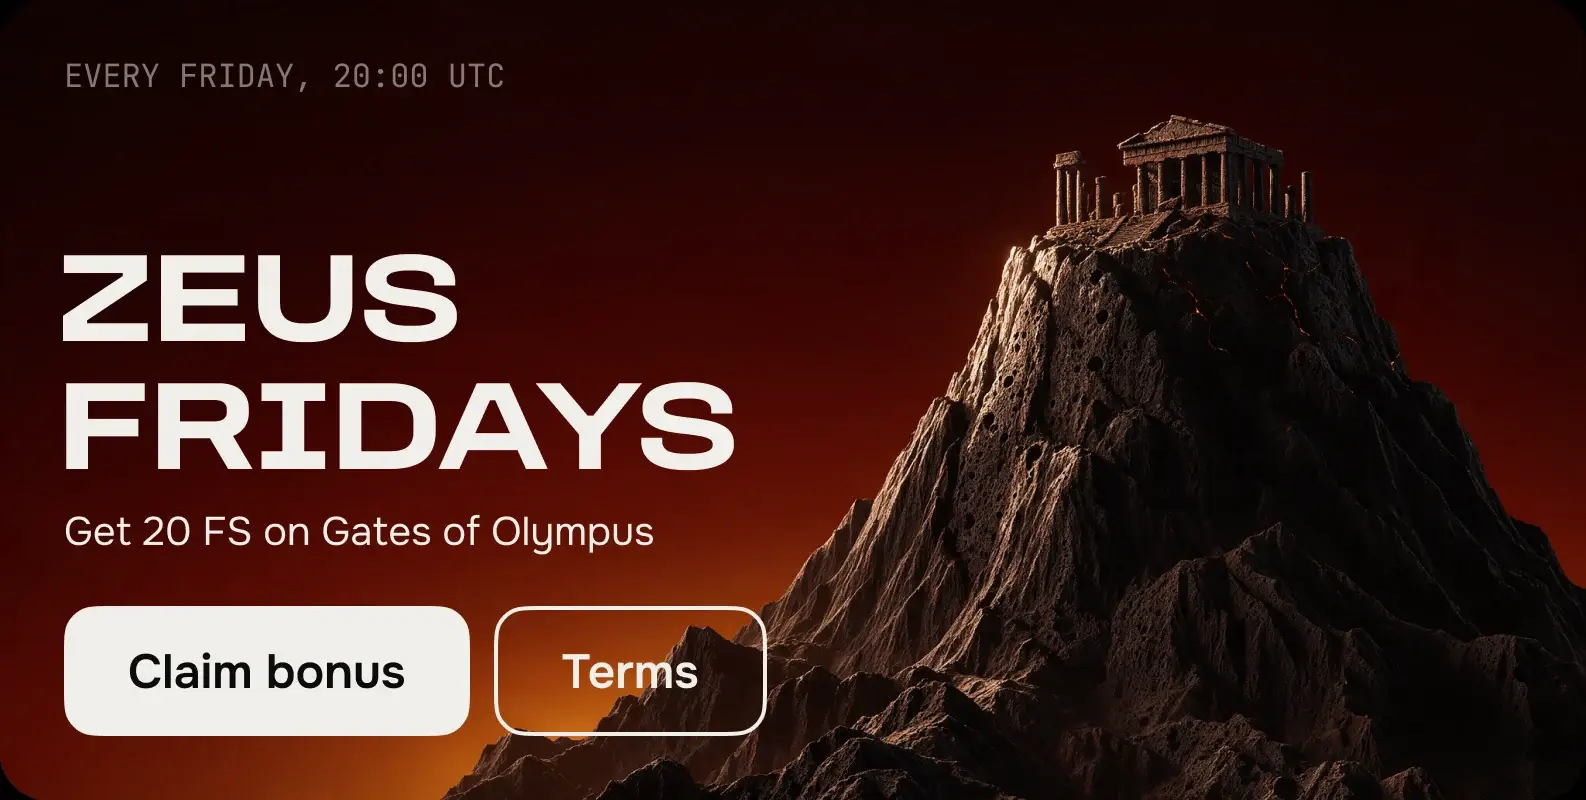
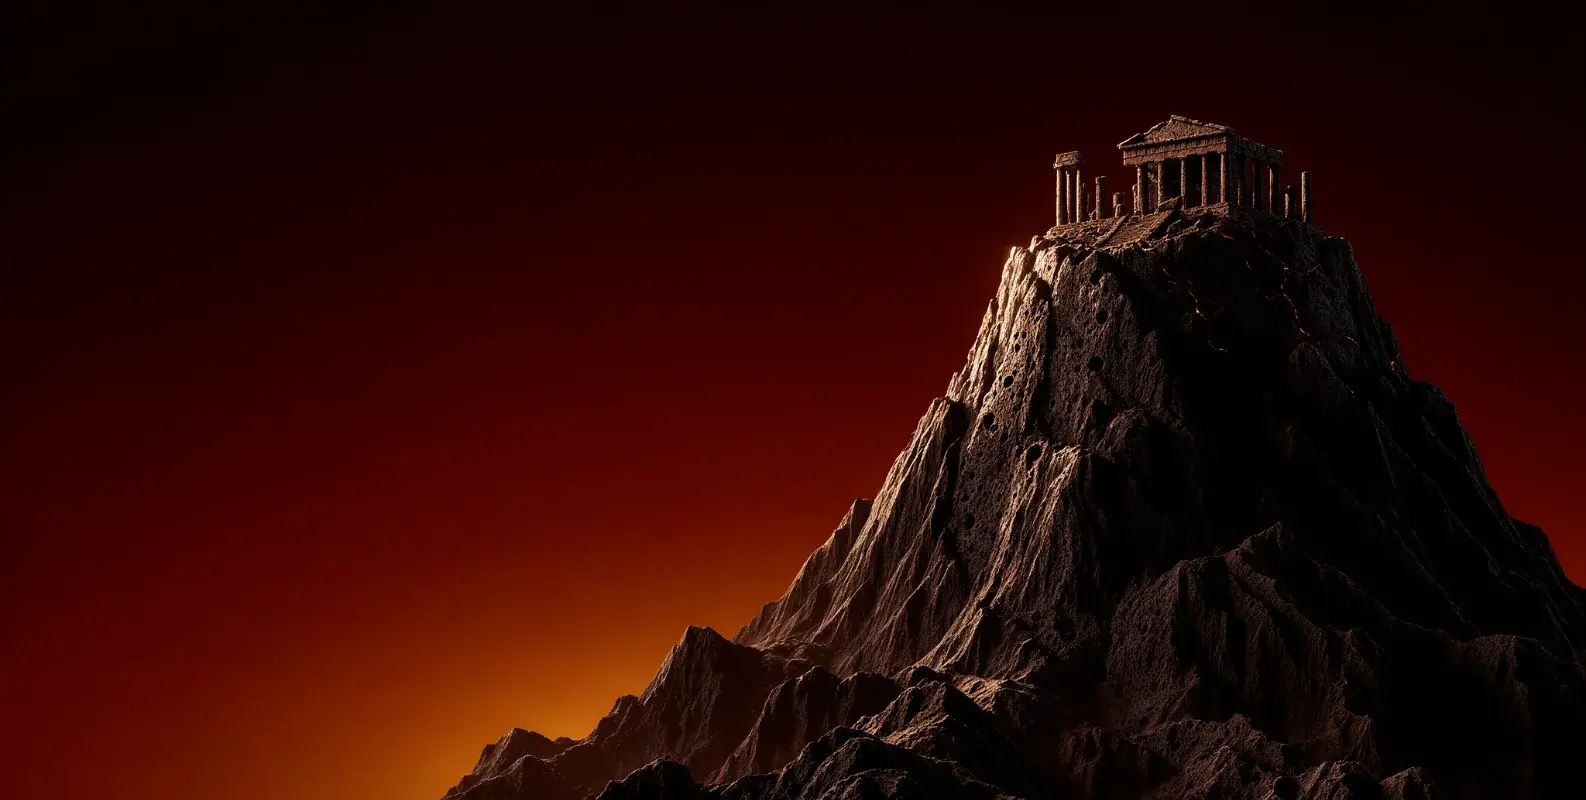
-m PLAZMO: баннеры ниже (21:8), текст и кнопки живым HTML

diff --git a/index.html b/index.html
@@ -7079,39 +7079,52 @@ body.nav-rail .ri:hover::after, body.nav-rail .ri:focus-visible::after { opacity
 .category-grid[hidden] { display: none; }
 
 /* ── Слайдер баннеров (Figma 315:4629) ──
-   Баннер 1586×800 показан целиком, поэтому коробка держит его пропорцию:
-   тогда невидимые кнопки ложатся ровно на нарисованные. */
-.bsl { position: relative; width: 100%; aspect-ratio: 1586 / 800; border-radius: inherit; overflow: hidden; }
+   Макет 1586×800. Текст и кнопки меряются в cqh — долях высоты баннера,
+   поэтому раскладка та же при любой пропорции; арт тянется по ширине и
+   прижат вправо. На компьютере баннер низкий и вытянутый (21:8), на
+   телефоне — пропорция макета. */
+.bsl { position: relative; width: 100%; aspect-ratio: 21 / 8; border-radius: inherit; overflow: hidden; background: #000; }
 .bsl__track { display: flex; width: 100%; height: 100%; overflow-x: auto; scroll-snap-type: x mandatory;
               scroll-behavior: smooth; scrollbar-width: none; }
 .bsl__track::-webkit-scrollbar { display: none; }
-.bsl__slide { position: relative; flex: 0 0 100%; height: 100%; scroll-snap-align: start; }
-.bsl__slide img { display: block; width: 100%; height: 100%; object-fit: cover; }
-.bsl__hot { position: absolute; top: 75.75%; height: 16.25%; padding: 0; border: 0; background: none;
-            border-radius: 4%/8%; cursor: pointer; }
-.bsl__hot--claim { left: 4.04%; width: 25.6%; }
-.bsl__hot--terms { left: 31.15%; width: 17.21%; }
-.bsl__hot--play { left: 4.04%; width: 21.37%; }
-.bsl__hot--terms-s { left: 27.24%; width: 17.21%; }
-.bsl__hot:hover { background: rgba(255, 255, 255, .08); }
-.bsl__hot:focus-visible { outline: 2px solid #fff; outline-offset: 2px; }
+.bsl__slide { position: relative; flex: 0 0 100%; height: 100%; scroll-snap-align: start; container-type: size; overflow: hidden; }
+.bsl__art { position: absolute; inset: 0; display: block; width: 100%; height: 100%; object-fit: cover; object-position: 100% 45%; }
+.bsl__txt { position: absolute; inset: 0; pointer-events: none; color: #f0eeea; }
+.bsl .bsl__info { position: absolute; left: 8cqh; top: 8cqh; font-family: 'JetBrains Mono', ui-monospace, monospace;
+             font-size: 4cqh; line-height: 1; text-transform: uppercase; opacity: .5; white-space: nowrap; }
+.bsl .bsl__title { position: absolute; max-width: none; color: #f0eeea; left: 7.25cqh; top: 28.6cqh; margin: 0; font-family: 'Archivo', 'Arial Black', sans-serif;
+              font-variation-settings: 'wdth' 112; font-stretch: 112%; font-weight: 800; font-size: 16cqh; line-height: 1;
+              letter-spacing: -.01em; text-transform: uppercase; white-space: nowrap; }
+.bsl .bsl__sub { position: absolute; max-width: none; color: #f0eeea; left: 8cqh; top: 63.2cqh; margin: 0; font-family: 'Onest', system-ui, sans-serif;
+            font-size: 5cqh; line-height: 1.1; white-space: nowrap; }
+.bsl .bsl__btns { position: absolute; left: 8cqh; top: 75.75cqh; display: flex; gap: 3cqh; pointer-events: auto; }
+.bsl .bsl__btn { box-sizing: border-box; height: 16.25cqh; padding: 0 8cqh; border-radius: 4cqh; cursor: pointer;
+            font-family: 'Onest', system-ui, sans-serif; font-weight: 600; font-size: 6cqh; line-height: 1; white-space: nowrap;
+            transition: background-color .15s ease, box-shadow .15s ease, transform .1s ease; }
+.bsl__btn--main { border: 0; background: #f0eeea; color: #0c0c0c; }
+.bsl__btn--main:hover { background: #fff; }
+.bsl__btn--ghost { border: .5cqh solid #f0eeea; background: none; color: #f0eeea; }
+.bsl__btn--ghost:hover { background: rgba(240, 238, 234, .1); }
+.bsl__btn:active { transform: translateY(1px); }
+.bsl__btn:focus-visible { outline: 2px solid #fff; outline-offset: 2px; }
 .bsl__dots { position: absolute; right: 3%; top: 7%; display: flex; gap: 6px; }
 .bsl__dots button { width: 16px; height: 4px; padding: 0; border: 0; border-radius: 999px; cursor: pointer;
                     background: rgba(240, 238, 234, .35); transition: width .2s ease, background-color .2s ease; }
 .bsl__dots button[aria-selected="true"] { width: 32px; background: #f0eeea; }
-@media (max-width: 767px) { .bsl__dots { top: 7%; bottom: auto; gap: 4px; } .bsl__dots button { width: 8px; } .bsl__dots button[aria-selected="true"] { width: 18px; } }
+@media (max-width: 1023px) { .bsl { aspect-ratio: 1586 / 800; } }
+@media (max-width: 767px) { .bsl__dots { gap: 4px; } .bsl__dots button { width: 8px; } .bsl__dots button[aria-selected="true"] { width: 18px; } }
 
 /* Большой промоблок на главной — теперь слайдер баннеров: коробка по
    пропорции баннера, две карточки справа делят его высоту. */
 .bento { grid-template-rows: auto auto; }
-.t-main { padding: 0; background: #0b0a0a; aspect-ratio: 1586 / 800; gap: 0; }
+.t-main { padding: 0; background: #0b0a0a; aspect-ratio: 21 / 8; gap: 0; }
 @media (min-width: 1024px) and (max-width: 1279px) {
   .bento { grid-template-rows: auto 180px; }
 }
 /* Телефон: вместо прежнего героя — тот же слайдер во всю ширину */
 @media (max-width: 1023px) {
   .bento { display: grid; grid-template-columns: minmax(0, 1fr); grid-template-rows: auto; margin-bottom: 8px; }
-  .t-main { grid-column: auto; grid-row: auto; border-radius: 16px; }
+  .t-main { grid-column: auto; grid-row: auto; border-radius: 16px; aspect-ratio: 1586 / 800; }
   .t-side { display: none; }
   .hero { display: none !important; }
 }
@@ -7357,24 +7370,25 @@ body.nav-rail .ri:hover::after, body.nav-rail .ri:focus-visible::after { opacity
     <div class="pz-top">
       <div class="bento">
         <div class="tile t-main">
-          <!-- Баннеры из Figma (Design QA 315:4629): картинка баннера целиком,
-               поверх нарисованных кнопок — настоящие кнопки-невидимки. -->
+          <!-- Баннеры из Figma (Design QA 315:4629). Арт — картинкой, текст и кнопки —
+               живым HTML: так баннер держит любую пропорцию, а размеры текста
+               считаются от его высоты (container query), как в макете 1586×800. -->
           <div class="bsl" data-bsl aria-roledescription="carousel" aria-label="Promotions">
             <div class="bsl__track">
-              <div class="bsl__slide" role="group" aria-roledescription="slide"><img src="a/1f41a97a15.webp" alt="Heat up to 350% — welcome pack" width="1586" height="800"><button class="bsl__hot bsl__hot--claim" type="button" data-fgo="auth:reg" aria-label="Claim bonus"></button><button class="bsl__hot bsl__hot--terms" type="button" data-fgo="view:promo" aria-label="Terms"></button></div>
-              <div class="bsl__slide" role="group" aria-roledescription="slide"><img src="a/8f3025f001.webp" alt="Zeus Fridays — 20 free spins on Gates of Olympus" width="1586" height="800"><button class="bsl__hot bsl__hot--claim" type="button" data-fgo="auth:reg" aria-label="Claim bonus"></button><button class="bsl__hot bsl__hot--terms" type="button" data-fgo="view:promo" aria-label="Terms"></button></div>
-              <div class="bsl__slide" role="group" aria-roledescription="slide"><img src="a/aaa5515201.webp" alt="Welcome free spins for new players" width="1586" height="800"><button class="bsl__hot bsl__hot--claim" type="button" data-fgo="auth:reg" aria-label="Claim bonus"></button><button class="bsl__hot bsl__hot--terms" type="button" data-fgo="view:promo" aria-label="Terms"></button></div>
-              <div class="bsl__slide" role="group" aria-roledescription="slide"><img src="a/bd83c5ddf9.webp" alt="Referral program — 5% of friends’ net loss" width="1586" height="800"><button class="bsl__hot bsl__hot--claim" type="button" data-fgo="auth:reg" aria-label="Claim bonus"></button><button class="bsl__hot bsl__hot--terms" type="button" data-fgo="view:promo" aria-label="Terms"></button></div>
-              <div class="bsl__slide" role="group" aria-roledescription="slide"><img src="a/358c733900.webp" alt="Sport event" width="1586" height="800"><button class="bsl__hot bsl__hot--play" type="button" data-fgo="msg:Sport is coming soon." aria-label="Play now"></button><button class="bsl__hot bsl__hot--terms-s" type="button" data-fgo="view:promo" aria-label="Terms"></button></div>
-              <div class="bsl__slide" role="group" aria-roledescription="slide"><img src="a/f77d9ab632.webp" alt="Heat up to 350%" width="1586" height="800"><button class="bsl__hot bsl__hot--claim" type="button" data-fgo="auth:reg" aria-label="Claim bonus"></button><button class="bsl__hot bsl__hot--terms" type="button" data-fgo="view:promo" aria-label="Terms"></button></div>
-              <div class="bsl__slide" role="group" aria-roledescription="slide"><img src="a/07e5062ef2.webp" alt="Heat up to 350%" width="1586" height="800"><button class="bsl__hot bsl__hot--claim" type="button" data-fgo="auth:reg" aria-label="Claim bonus"></button><button class="bsl__hot bsl__hot--terms" type="button" data-fgo="view:promo" aria-label="Terms"></button></div>
-              <div class="bsl__slide" role="group" aria-roledescription="slide"><img src="a/b15df42907.webp" alt="Heat up to 350%" width="1586" height="800"><button class="bsl__hot bsl__hot--claim" type="button" data-fgo="auth:reg" aria-label="Claim bonus"></button><button class="bsl__hot bsl__hot--terms" type="button" data-fgo="view:promo" aria-label="Terms"></button></div>
-              <div class="bsl__slide" role="group" aria-roledescription="slide"><img src="a/a268912f1c.webp" alt="Heat up to 350%" width="1586" height="800"><button class="bsl__hot bsl__hot--claim" type="button" data-fgo="auth:reg" aria-label="Claim bonus"></button><button class="bsl__hot bsl__hot--terms" type="button" data-fgo="view:promo" aria-label="Terms"></button></div>
-              <div class="bsl__slide" role="group" aria-roledescription="slide"><img src="a/f658cfa89b.webp" alt="Heat up to 350%" width="1586" height="800"><button class="bsl__hot bsl__hot--claim" type="button" data-fgo="auth:reg" aria-label="Claim bonus"></button><button class="bsl__hot bsl__hot--terms" type="button" data-fgo="view:promo" aria-label="Terms"></button></div>
-              <div class="bsl__slide" role="group" aria-roledescription="slide"><img src="a/94be92433c.webp" alt="Heat up to 350%" width="1586" height="800"><button class="bsl__hot bsl__hot--claim" type="button" data-fgo="auth:reg" aria-label="Claim bonus"></button><button class="bsl__hot bsl__hot--terms" type="button" data-fgo="view:promo" aria-label="Terms"></button></div>
-              <div class="bsl__slide" role="group" aria-roledescription="slide"><img src="a/fac07efb93.webp" alt="Heat up to 350%" width="1586" height="800"><button class="bsl__hot bsl__hot--claim" type="button" data-fgo="auth:reg" aria-label="Claim bonus"></button><button class="bsl__hot bsl__hot--terms" type="button" data-fgo="view:promo" aria-label="Terms"></button></div>
-              <div class="bsl__slide" role="group" aria-roledescription="slide"><img src="a/92e31c5ff0.webp" alt="Heat up to 350%" width="1586" height="800"><button class="bsl__hot bsl__hot--claim" type="button" data-fgo="auth:reg" aria-label="Claim bonus"></button><button class="bsl__hot bsl__hot--terms" type="button" data-fgo="view:promo" aria-label="Terms"></button></div>
-              <div class="bsl__slide" role="group" aria-roledescription="slide"><img src="a/bbf3acab0c.webp" alt="Heat up to 350%" width="1586" height="800"><button class="bsl__hot bsl__hot--claim" type="button" data-fgo="auth:reg" aria-label="Claim bonus"></button><button class="bsl__hot bsl__hot--terms" type="button" data-fgo="view:promo" aria-label="Terms"></button></div>
+              <div class="bsl__slide" role="group" aria-roledescription="slide"><img class="bsl__art" src="a/1f41a97a15.webp" alt="" width="1586" height="800"><div class="bsl__txt"><span class="bsl__info">Welcome pack · 3 deposits</span><h3 class="bsl__title">Heat up<br>to 350%</h3><p class="bsl__sub">Warm up your balance.</p><div class="bsl__btns"><button class="bsl__btn bsl__btn--main" type="button" data-fgo="auth:reg">Claim bonus</button><button class="bsl__btn bsl__btn--ghost" type="button" data-fgo="view:promo">Terms</button></div></div></div>
+              <div class="bsl__slide" role="group" aria-roledescription="slide"><img class="bsl__art" src="a/8f3025f001.webp" alt="" width="1586" height="800"><div class="bsl__txt"><span class="bsl__info">Every Friday, 20:00 UTC</span><h3 class="bsl__title">Zeus<br>Fridays</h3><p class="bsl__sub">Get 20 FS on Gates of Olympus</p><div class="bsl__btns"><button class="bsl__btn bsl__btn--main" type="button" data-fgo="auth:reg">Claim bonus</button><button class="bsl__btn bsl__btn--ghost" type="button" data-fgo="view:promo">Terms</button></div></div></div>
+              <div class="bsl__slide" role="group" aria-roledescription="slide"><img class="bsl__art" src="a/aaa5515201.webp" alt="" width="1586" height="800"><div class="bsl__txt"><span class="bsl__info">Active for registration</span><h3 class="bsl__title">Welcome<br>freespins</h3><p class="bsl__sub">For new players</p><div class="bsl__btns"><button class="bsl__btn bsl__btn--main" type="button" data-fgo="auth:reg">Claim bonus</button><button class="bsl__btn bsl__btn--ghost" type="button" data-fgo="view:promo">Terms</button></div></div></div>
+              <div class="bsl__slide" role="group" aria-roledescription="slide"><img class="bsl__art" src="a/bd83c5ddf9.webp" alt="" width="1586" height="800"><div class="bsl__txt"><span class="bsl__info">Active for registration</span><h3 class="bsl__title">Referal<br>program</h3><p class="bsl__sub">5% of invited friend’s net loss for 30 days</p><div class="bsl__btns"><button class="bsl__btn bsl__btn--main" type="button" data-fgo="auth:reg">Claim bonus</button><button class="bsl__btn bsl__btn--ghost" type="button" data-fgo="view:promo">Terms</button></div></div></div>
+              <div class="bsl__slide" role="group" aria-roledescription="slide"><img class="bsl__art" src="a/358c733900.webp" alt="" width="1586" height="800"><div class="bsl__txt"><span class="bsl__info">Sport event, 20:00 UTC</span><h3 class="bsl__title">Sport<br>banner</h3><p class="bsl__sub">Make the move</p><div class="bsl__btns"><button class="bsl__btn bsl__btn--main" type="button" data-fgo="msg:Sport is coming soon.">Play now</button><button class="bsl__btn bsl__btn--ghost" type="button" data-fgo="view:promo">Terms</button></div></div></div>
+              <div class="bsl__slide" role="group" aria-roledescription="slide"><img class="bsl__art" src="a/f77d9ab632.webp" alt="" width="1586" height="800"><div class="bsl__txt"><span class="bsl__info">Welcome pack · 3 deposits</span><h3 class="bsl__title">Heat up<br>to 350%</h3><p class="bsl__sub">Warm up your balance.</p><div class="bsl__btns"><button class="bsl__btn bsl__btn--main" type="button" data-fgo="auth:reg">Claim bonus</button><button class="bsl__btn bsl__btn--ghost" type="button" data-fgo="view:promo">Terms</button></div></div></div>
+              <div class="bsl__slide" role="group" aria-roledescription="slide"><img class="bsl__art" src="a/07e5062ef2.webp" alt="" width="1586" height="800"><div class="bsl__txt"><span class="bsl__info">Welcome pack · 3 deposits</span><h3 class="bsl__title">Heat up<br>to 350%</h3><p class="bsl__sub">Warm up your balance.</p><div class="bsl__btns"><button class="bsl__btn bsl__btn--main" type="button" data-fgo="auth:reg">Claim bonus</button><button class="bsl__btn bsl__btn--ghost" type="button" data-fgo="view:promo">Terms</button></div></div></div>
+              <div class="bsl__slide" role="group" aria-roledescription="slide"><img class="bsl__art" src="a/b15df42907.webp" alt="" width="1586" height="800"><div class="bsl__txt"><span class="bsl__info">Welcome pack · 3 deposits</span><h3 class="bsl__title">Heat up<br>to 350%</h3><p class="bsl__sub">Warm up your balance.</p><div class="bsl__btns"><button class="bsl__btn bsl__btn--main" type="button" data-fgo="auth:reg">Claim bonus</button><button class="bsl__btn bsl__btn--ghost" type="button" data-fgo="view:promo">Terms</button></div></div></div>
+              <div class="bsl__slide" role="group" aria-roledescription="slide"><img class="bsl__art" src="a/a268912f1c.webp" alt="" width="1586" height="800"><div class="bsl__txt"><span class="bsl__info">Welcome pack · 3 deposits</span><h3 class="bsl__title">Heat up<br>to 350%</h3><p class="bsl__sub">Warm up your balance.</p><div class="bsl__btns"><button class="bsl__btn bsl__btn--main" type="button" data-fgo="auth:reg">Claim bonus</button><button class="bsl__btn bsl__btn--ghost" type="button" data-fgo="view:promo">Terms</button></div></div></div>
+              <div class="bsl__slide" role="group" aria-roledescription="slide"><img class="bsl__art" src="a/f658cfa89b.webp" alt="" width="1586" height="800"><div class="bsl__txt"><span class="bsl__info">Welcome pack · 3 deposits</span><h3 class="bsl__title">Heat up<br>to 350%</h3><p class="bsl__sub">Warm up your balance.</p><div class="bsl__btns"><button class="bsl__btn bsl__btn--main" type="button" data-fgo="auth:reg">Claim bonus</button><button class="bsl__btn bsl__btn--ghost" type="button" data-fgo="view:promo">Terms</button></div></div></div>
+              <div class="bsl__slide" role="group" aria-roledescription="slide"><img class="bsl__art" src="a/94be92433c.webp" alt="" width="1586" height="800"><div class="bsl__txt"><span class="bsl__info">Welcome pack · 3 deposits</span><h3 class="bsl__title">Heat up<br>to 350%</h3><p class="bsl__sub">Warm up your balance.</p><div class="bsl__btns"><button class="bsl__btn bsl__btn--main" type="button" data-fgo="auth:reg">Claim bonus</button><button class="bsl__btn bsl__btn--ghost" type="button" data-fgo="view:promo">Terms</button></div></div></div>
+              <div class="bsl__slide" role="group" aria-roledescription="slide"><img class="bsl__art" src="a/fac07efb93.webp" alt="" width="1586" height="800"><div class="bsl__txt"><span class="bsl__info">Welcome pack · 3 deposits</span><h3 class="bsl__title">Heat up<br>to 350%</h3><p class="bsl__sub">Warm up your balance.</p><div class="bsl__btns"><button class="bsl__btn bsl__btn--main" type="button" data-fgo="auth:reg">Claim bonus</button><button class="bsl__btn bsl__btn--ghost" type="button" data-fgo="view:promo">Terms</button></div></div></div>
+              <div class="bsl__slide" role="group" aria-roledescription="slide"><img class="bsl__art" src="a/92e31c5ff0.webp" alt="" width="1586" height="800"><div class="bsl__txt"><span class="bsl__info">Welcome pack · 3 deposits</span><h3 class="bsl__title">Heat up<br>to 350%</h3><p class="bsl__sub">Warm up your balance.</p><div class="bsl__btns"><button class="bsl__btn bsl__btn--main" type="button" data-fgo="auth:reg">Claim bonus</button><button class="bsl__btn bsl__btn--ghost" type="button" data-fgo="view:promo">Terms</button></div></div></div>
+              <div class="bsl__slide" role="group" aria-roledescription="slide"><img class="bsl__art" src="a/bbf3acab0c.webp" alt="" width="1586" height="800"><div class="bsl__txt"><span class="bsl__info">Welcome pack · 3 deposits</span><h3 class="bsl__title">Heat up<br>to 350%</h3><p class="bsl__sub">Warm up your balance.</p><div class="bsl__btns"><button class="bsl__btn bsl__btn--main" type="button" data-fgo="auth:reg">Claim bonus</button><button class="bsl__btn bsl__btn--ghost" type="button" data-fgo="view:promo">Terms</button></div></div></div>
             </div>
             <div class="bsl__dots" role="tablist" aria-label="Banners"></div>
           </div>
